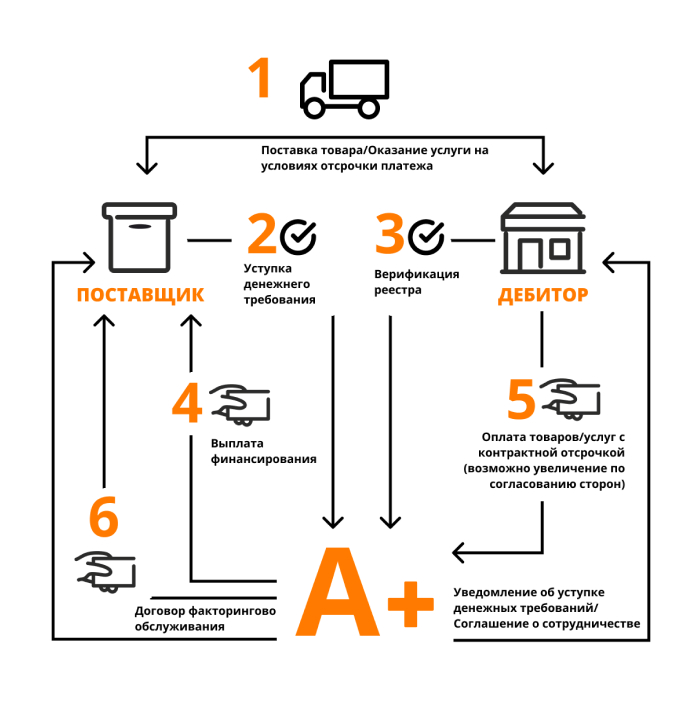
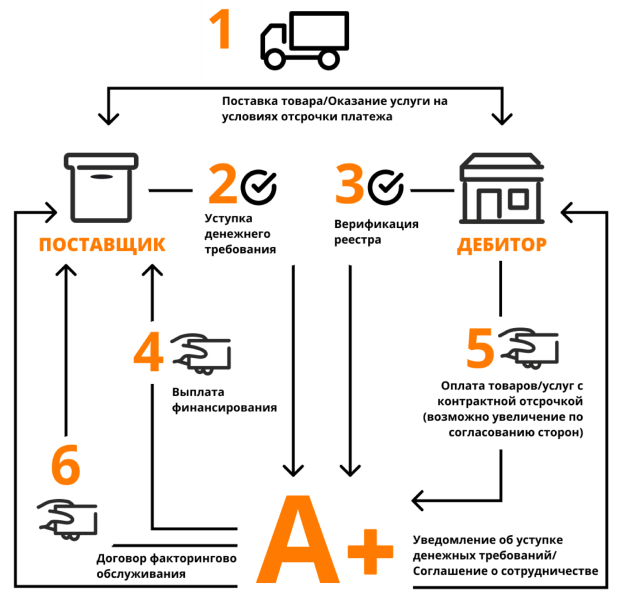
Full adaptive for scheme frome home page

Changed region(s): [[0.0, 0.0, 1.0, 0.995]]

diff --git a/src/components/Interaction/Interaction.jsx b/src/components/Interaction/Interaction.jsx
@@ -7,51 +7,51 @@ import ButtonCalculate from '../ButtonCalculate/ButtonCalculate';
 function Interaction() {
   return (
     <div className="interaction container">
-      <div className="interaction__inner container__row">
-
-        <div className="interaction__content">
-          <div className="interaction__left">
-            <h1 className="interaction__header">Схема<br/>взаимодействия</h1>
-            <div className="interaction__imgWrapper"><img className="interaction__img" alt="Схема" src={SchemeImg} srcSet={`${SchemeRetinaImg} 2x`}/></div>
-          </div>
-          <div className="interaction__list">
-            <div className="interaction__item">
-              <div className="interaction__number">1</div>
-              <div className="interaction__description">Поставщик отгружает товары Дебитору на условиях отсрочки платежа в рамках заключенного контракта</div>
+      <div className="container__row container__row_wide">
+        <div className='interaction__inner'>
+          <div className="interaction__content">
+            <div className="interaction__left">
+              <h1 className="interaction__header">Схема<br/>взаимодействия</h1>
+              <div className="interaction__imgWrapper"><img className="interaction__img" alt="Схема" src={SchemeImg} srcSet={`${SchemeRetinaImg} 2x`}/></div>
             </div>
-            <div className="interaction__item">
-              <div className="interaction__number">2</div>
-              <div className="interaction__description">
-          После поставки товара, Поставщик передает в Открытие Факторинг электронный реестр с перечнем поставок и сумм для выплаты финансирования через личный кабинет </div>
-            </div>
-            <div className="interaction__item">
-              <div className="interaction__number">3</div>
-              <div className="interaction__description">А+ отправляет в полученный реестр в адес Дебитора для подтверждения (верификации) действительности переданных поставок</div>
-            </div>
-            <div className="interaction__item">
-              <div className="interaction__number">4</div>
-              <div className="interaction__description">А+ выплачивает до 100% от суммы реестра Поставщику</div>
-            </div>
-            <div className="interaction__item">
-              <div className="interaction__number">5</div>
-              <div className="interaction__description">После окончания отсрочки платежа по контракту, Дебитор производит оплату в адрес А+ по подтвержденным ранее поставкам от Поставщика</div>
-            </div>
-            <div className="interaction__item">
-              <div className="interaction__number">6</div>
-              <div className="interaction__description">А+ переводит Поставщику остаток денежных средств</div>
-            </div>
-            <div className="interaction__item">
-              <div className="interaction__numberWrapper">
-                <div className="interaction__number interaction__number_grey">!</div>
+            <div className="interaction__list">
+              <div className="interaction__item">
+                <div className="interaction__number">1</div>
+                <div className="interaction__description">Поставщик отгружает товары Дебитору на условиях отсрочки платежа в рамках заключенного контракта</div>
               </div>
-              <div className="interaction__description">В случае, если Дебитор не оплачивает задолженность, А+ направляет поставщику требование погасить задолженносьть</div>
+              <div className="interaction__item">
+                <div className="interaction__number">2</div>
+                <div className="interaction__description">
+            После поставки товара, Поставщик передает в Открытие Факторинг электронный реестр с перечнем поставок и сумм для выплаты финансирования через личный кабинет </div>
+              </div>
+              <div className="interaction__item">
+                <div className="interaction__number">3</div>
+                <div className="interaction__description">А+ отправляет в полученный реестр в адес Дебитора для подтверждения (верификации) действительности переданных поставок</div>
+              </div>
+              <div className="interaction__item">
+                <div className="interaction__number">4</div>
+                <div className="interaction__description">А+ выплачивает до 100% от суммы реестра Поставщику</div>
+              </div>
+              <div className="interaction__item">
+                <div className="interaction__number">5</div>
+                <div className="interaction__description">После окончания отсрочки платежа по контракту, Дебитор производит оплату в адрес А+ по подтвержденным ранее поставкам от Поставщика</div>
+              </div>
+              <div className="interaction__item">
+                <div className="interaction__number">6</div>
+                <div className="interaction__description">А+ переводит Поставщику остаток денежных средств</div>
+              </div>
+              <div className="interaction__item">
+                <div className="interaction__numberWrapper">
+                  <div className="interaction__number interaction__number_grey">!</div>
+                </div>
+                <div className="interaction__description">В случае, если Дебитор не оплачивает задолженность, А+ направляет поставщику требование погасить задолженносьть</div>
+              </div>
             </div>
           </div>
-        </div>
-
          <div className="interaction__buttons">
         <ButtonRequest/>
         <ButtonCalculate/>
+      </div>
       </div>
       </div>
     </div>

diff --git a/src/components/Interaction/Interaction.scss b/src/components/Interaction/Interaction.scss
@@ -8,28 +8,41 @@
 .interaction__inner {
     display: flex;
     flex-direction: column;
+    align-items: center;
 }
 
 .interaction__content {
     display: flex;
-    gap: 33px;
+    width: 100%;
+    gap: 20px;
+    margin-bottom: 31px;
 }
 
-// .interaction__left {
-//   position: relative;
-// }
+.interaction__left {
+    display: flex;
+    flex-direction: column;
+    width: 50%;
+    flex-grow: 1;
+}
 
-// .interaction__header {
-//     // margin-bottom: 74px;
-// }
+.interaction__header {
+    max-width: 564px;
+    width: 100%;
+    align-self: flex-end;
+   margin-bottom: 25px;
+//    padding-left: 100px;
+}
 
 .interaction__imgWrapper {
     // position: absolute;
-    // width: 42vw;
-    // top: 0;
-    // left: 0;
-    width: 695px;
-    margin-left: -117px;
+    // width: 58%;
+    // top: 134px;
+    // left: -61px;
+    // width: 617px;
+    // margin-left: -80px;
+    // padding-left: 117px;
+    max-width: 100%;
+    height: auto;
 }
 
 .interaction__img {
@@ -39,21 +52,25 @@
 .interaction__buttons {
     display: flex;
     gap: 10px;
+    max-width: 1140px;
+    align-items: flex-start;
+    width: 100%;
 }
 
 .interaction__list {
     display: flex;
     flex-direction: column;
+    width: 50%;
+    flex-grow: 1;
     gap: 18px;
-    // min-width: 600px;
-    max-width: 600px;
-    margin-top: 50px;
+    margin-top: 70px;
 }
 
 .interaction__item {
     display: flex;
     align-items: center;
     gap: 38px;
+    max-width: 600px;
 }
 
 .interaction__numberWrapper {
@@ -81,19 +98,81 @@
 }
 
 @media screen and (max-width: $tablet) {
+    .interaction {
+        padding-top: 100px;
+        margin-bottom: 41px;
+    }
+
     .interaction__content {
         flex-direction: column;
         margin-bottom: 25px;
-        // align-items: center;
+        gap: 0;
     }
 
-    .interaction__imgWrapper {
-        // // width: 42vw;
-        // width: 695px;
-        margin-left: 0;
+    .interaction__left {
+        width: 100%;
+    }
+
+    .interaction__header {
+        max-width: 100%;
+        margin-bottom: 40px;
+        font-size: 40px;
+        line-height: 54.47px;
+    }
+
+    .interaction__list {
+        width: 100%;
+        margin-top: 50px;
     }
 
     .interaction__buttons {
         flex-direction: column;
+        margin-left: 130px;
+    }
+}
+
+@media screen and (max-width: $mobile) {
+    .interaction {
+        padding-top: 40px;
+    }
+    
+    .interaction__content {
+        margin-bottom: 20px;
+    }
+
+    .interaction__header {
+        margin-bottom: 20px;
+        font-size: 16px;
+        line-height: 21.79px;
+    }
+
+    .interaction__list {
+        margin-top: 20px;
+        gap: 20px;
+    }
+
+    .interaction__item {
+        gap: 12px;
+    }
+    
+    .interaction__numberWrapper {
+        min-width: 14.91px;
+    }
+    
+    .interaction__number {
+        font-size: 26px;
+        line-height: 35.41px;
+    }
+
+    .interaction__description {
+        font-size: 10px;
+        line-height: 13.62px;
+    }
+
+    .interaction__buttons {
+        flex-direction: row;
+        justify-content: center;
+        gap: 15px;
+        margin-left: 0;
     }
 }

diff --git a/src/styles/common.scss b/src/styles/common.scss
@@ -30,11 +30,9 @@ main {
   padding: 0 20px;
 }
 
-// .container__row_wide {
-//   width: 99%;
-//   max-width: 1220px;
-//   padding: 0 40px 0 80px 200px;
-// }
+.container__row_wide {
+  max-width: 1380px;
+}
 
 button {
   border: none;
